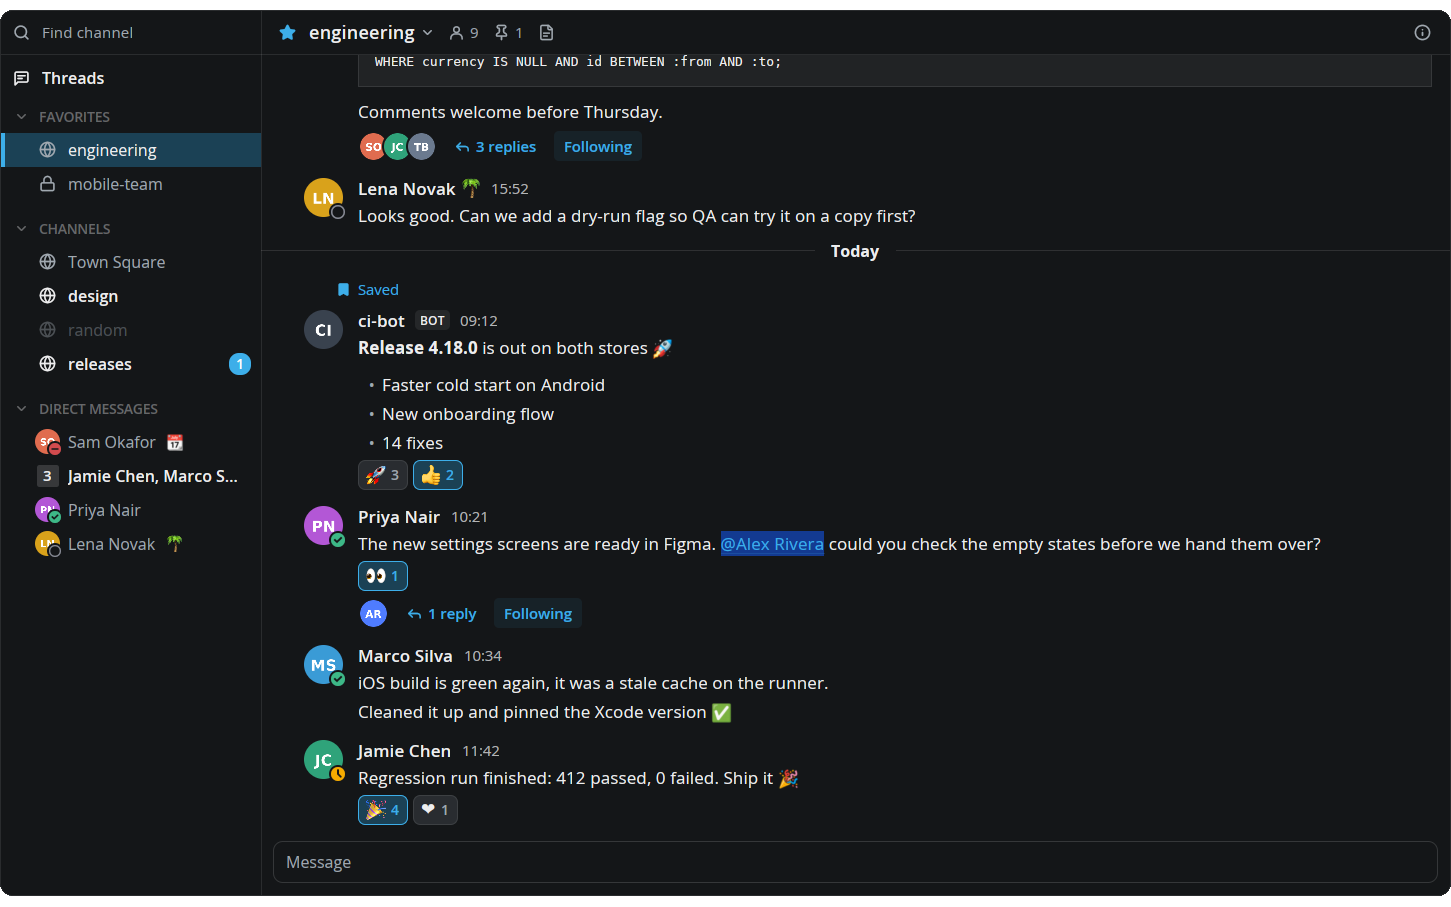
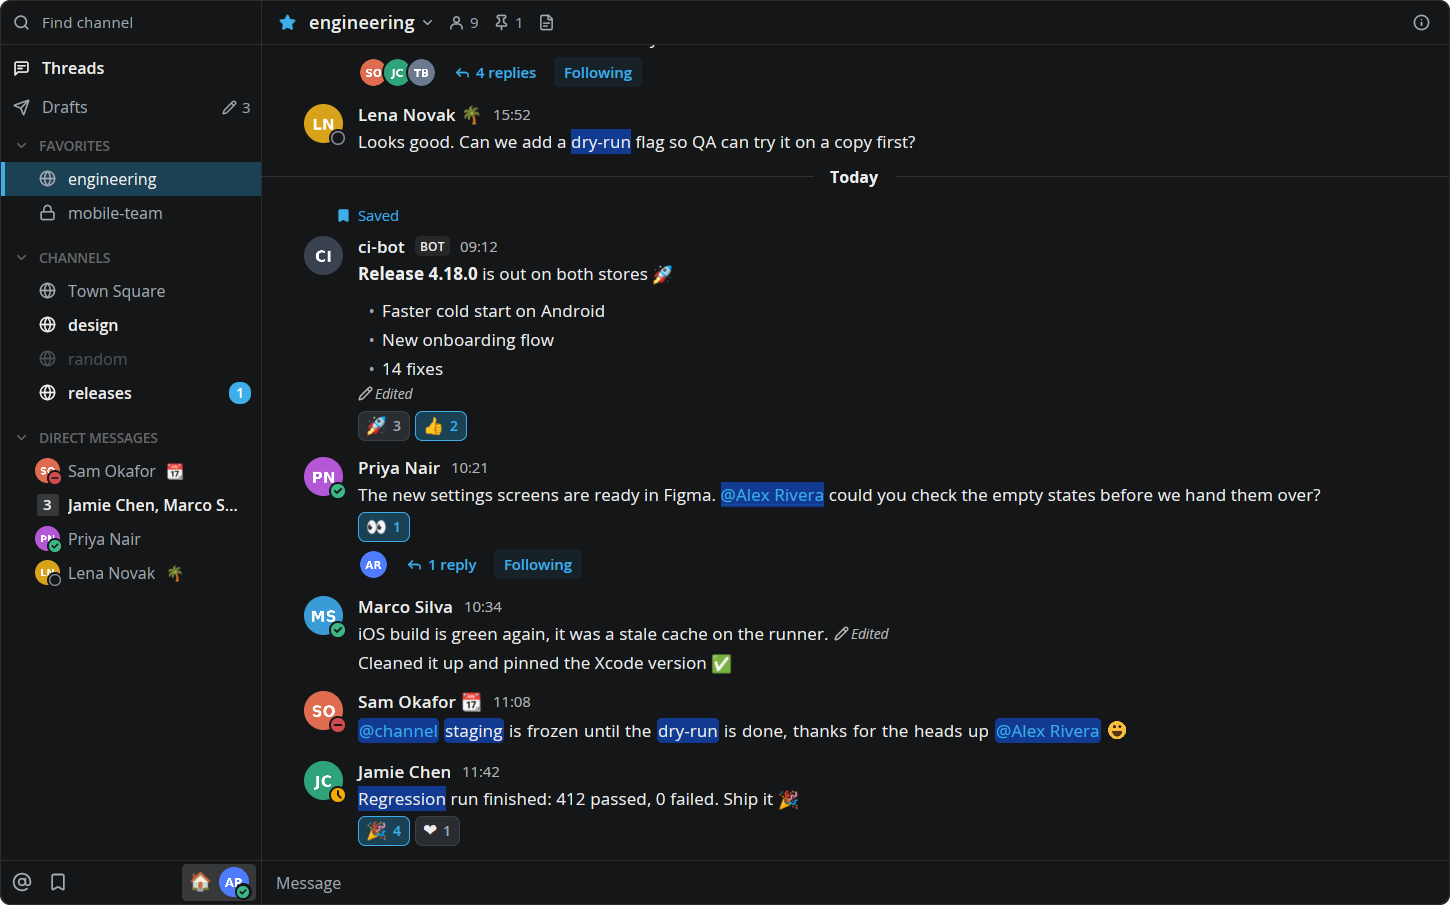
Refresh the screenshots and show the new features in the README

Changed region(s): [[0.0, 0.0, 1.0, 1.0], [0.1552, 0.3713, 0.1862, 0.4641]]

diff --git a/README.md b/README.md
@@ -47,9 +47,37 @@ To try it without a server, give the block `"props": { "demo": true }`. It shows
 
 ## Screenshots
 
+A thread beside the channel:
+
+![A thread beside the channel](screenshots/thread.png)
+
 Threads:
 
 ![Threads](screenshots/threads.png)
+
+Images, GIFs and files in messages:
+
+![Images, GIFs and files in messages](screenshots/media.png)
+
+The image viewer and its right-click menu:
+
+![The image viewer and its right-click menu](screenshots/image-viewer.png)
+
+Recent Mentions and its filters:
+
+![Recent Mentions and its filters](screenshots/mentions.png)
+
+Suggestions while typing:
+
+![Suggestions while typing](screenshots/suggestions.png)
+
+The account menu:
+
+![The account menu](screenshots/account-menu.png)
+
+Profile:
+
+![Profile](screenshots/profile.png)
 
 ## License
 
